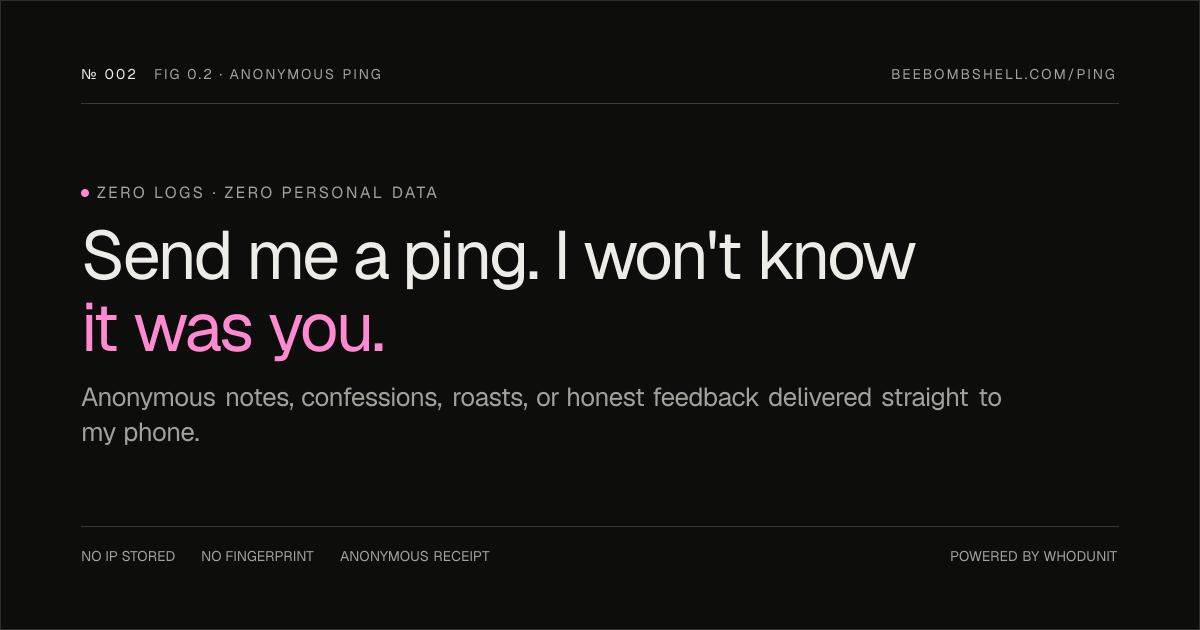
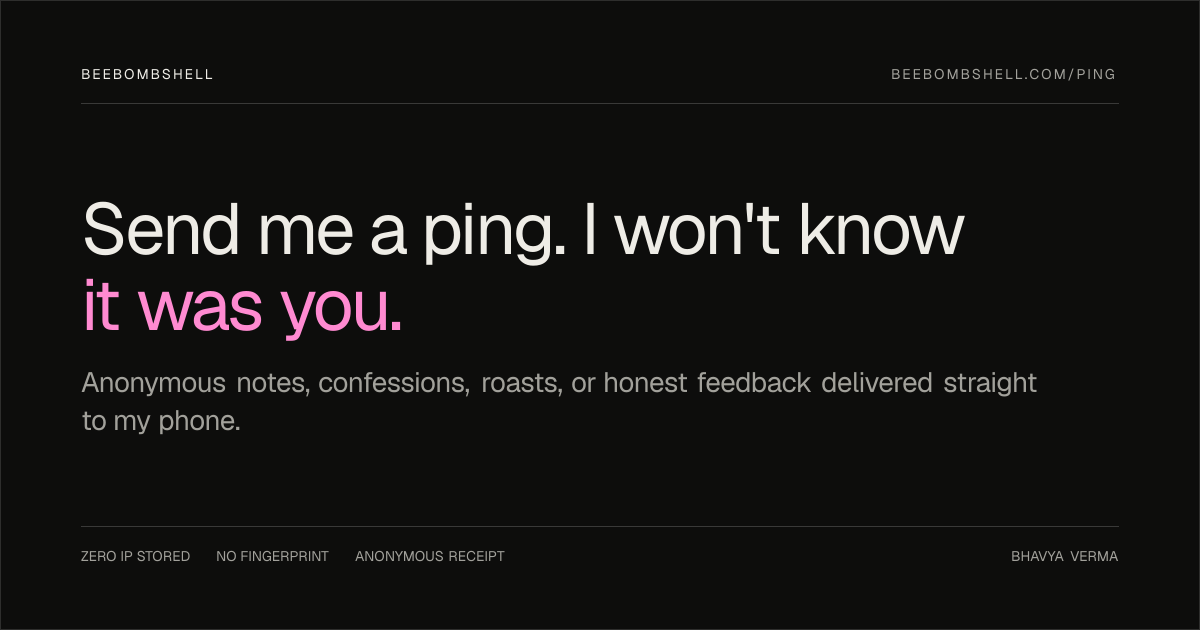
refactor: update ping opengraph image layout and branding text

diff --git a/app/ping/opengraph-image.tsx b/app/ping/opengraph-image.tsx
@@ -39,44 +39,18 @@ export default async function Image() {
             fontFamily: "monospace",
           }}
         >
-          <div style={{ display: "flex", alignItems: "center", gap: "16px" }}>
-            <span style={{ color: "#eeece6" }}>№ 002</span>
-            <span>FIG 0.2 · {COPY.ping.eyebrow}</span>
-          </div>
+          <span style={{ color: "#eeece6", fontWeight: 600 }}>BEEBOMBSHELL</span>
           <span>BEEBOMBSHELL.COM/PING</span>
         </div>
 
         {/* Center Headline */}
-        <div style={{ display: "flex", flexDirection: "column", gap: "16px" }}>
+        <div style={{ display: "flex", flexDirection: "column", gap: "20px" }}>
           <div
             style={{
-              fontSize: "16px",
-              fontFamily: "monospace",
-              letterSpacing: "0.15em",
-              color: "#a2a19b",
-              textTransform: "uppercase",
-              display: "flex",
-              alignItems: "center",
-              gap: "8px",
-            }}
-          >
-            <div
-              style={{
-                width: "8px",
-                height: "8px",
-                borderRadius: "50%",
-                backgroundColor: "#ff8ad1",
-              }}
-            />
-            <span>ZERO LOGS · ZERO PERSONAL DATA</span>
-          </div>
-
-          <div
-            style={{
-              fontSize: "68px",
+              fontSize: "72px",
               fontWeight: 400,
               letterSpacing: "-0.04em",
-              lineHeight: 1.06,
+              lineHeight: 1.05,
               color: "#eeece6",
               display: "flex",
               flexWrap: "wrap",
@@ -90,7 +64,7 @@ export default async function Image() {
 
           <div
             style={{
-              fontSize: "26px",
+              fontSize: "28px",
               letterSpacing: "-0.02em",
               color: "#a2a19b",
               lineHeight: 1.35,
@@ -115,11 +89,11 @@ export default async function Image() {
           }}
         >
           <div style={{ display: "flex", gap: "24px" }}>
-            <span>NO IP STORED</span>
+            <span>ZERO IP STORED</span>
             <span>NO FINGERPRINT</span>
             <span>ANONYMOUS RECEIPT</span>
           </div>
-          <span>POWERED BY WHODUNIT</span>
+          <span>BHAVYA VERMA</span>
         </div>
       </div>
     ),
